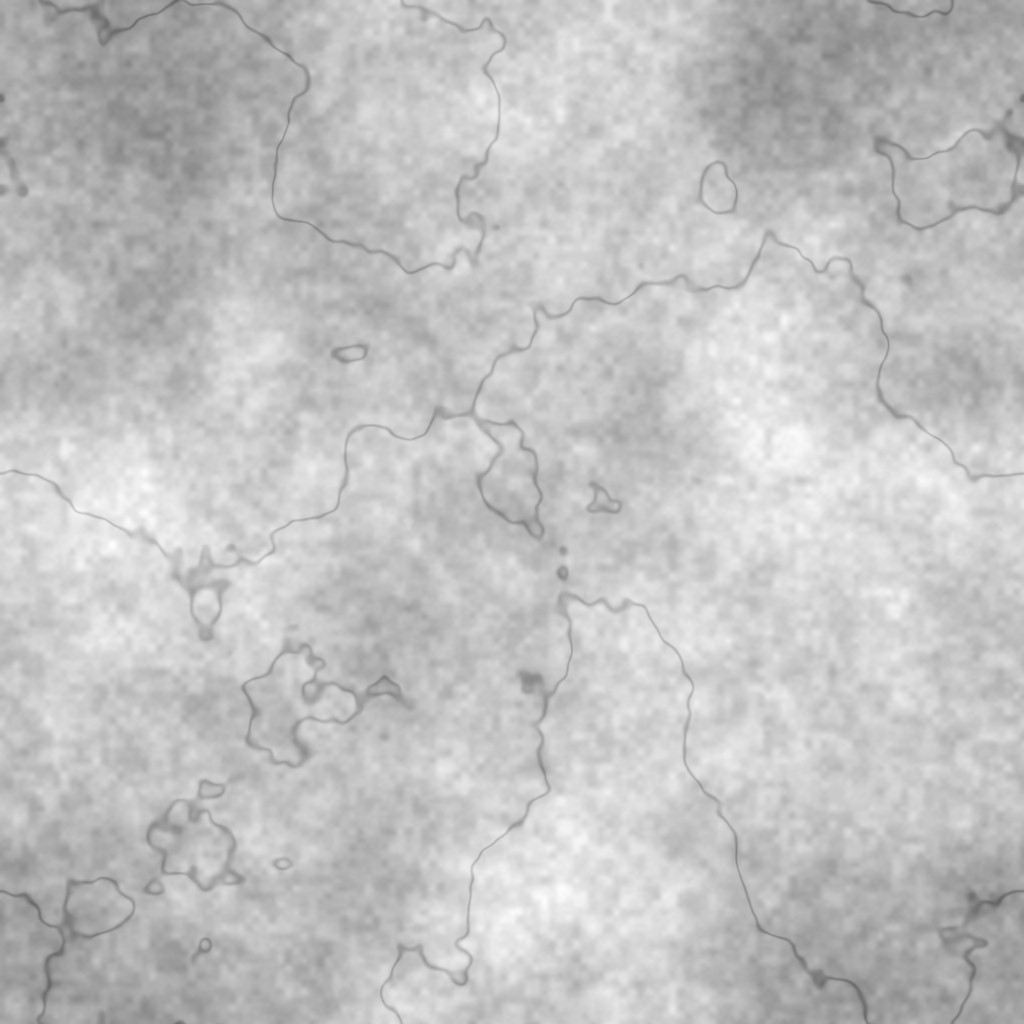
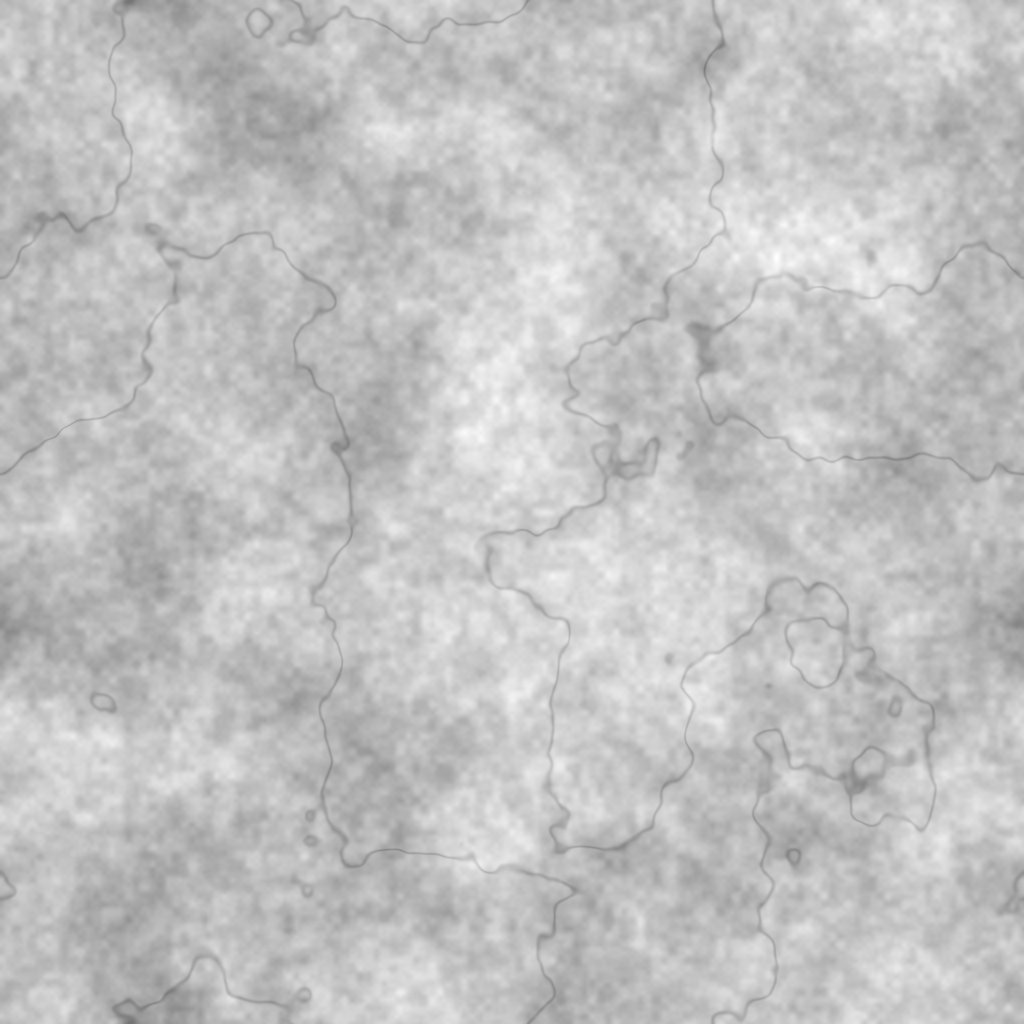
Parcela 7: roca sin manchas repetidas (v2)

diff --git a/CHANGELOG.md b/CHANGELOG.md
@@ -2,6 +2,16 @@
 
 > El más nuevo arriba. Formato en [`CLAUDE.md`](CLAUDE.md).
 
+## 2026-11-25 · seguo970 (Claude) · Parcela 7: la roca sin manchas repetidas
+**Qué:** en la roca del volcán (parcela 7) se veían unas manchas oscuras grandes repetidas muchas veces. Ahora la roca es más uniforme y natural:
+- Las manchas grandes son muy suaves.
+- Tiene más detalle mediano y fino.
+- La textura ocupa el doble (80 studs en vez de 40).
+**Dónde:**
+- `MaterialService.RocaVolcan`: `StudsPerTile` 80, color `112826062478022` y normal `71895642310226`.
+- `tools/modelos/RocaVolcan/texturas.ps1` (v2, `-Seed 44`) e `IDS.txt`.
+**Probado:** Play en Studio: captura de la parcela 7 desde arriba, sin repeticiones a la vista. Sin errores.
+
 ## 2026-11-25 · seguo970 (Claude) · Parcela 10: el cuarzo sin patrón repetido
 **Qué:** el suelo de cuarzo rosado azulado de la parcela 10 ya no se ve como un mosaico con el mismo dibujo repetido muchas veces. Ahora parece más natural:
 - La textura ocupa casi 3 veces más (64 studs en vez de 24).
